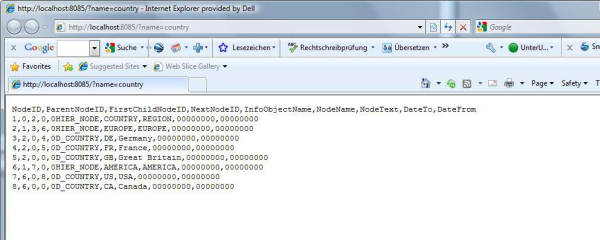
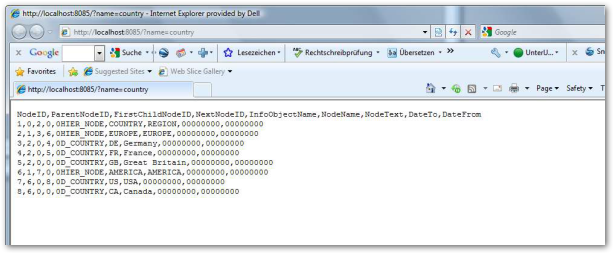
review. editorial changes

Changed region(s): [[0.0, 0.0, 1.0, 1.0]]

diff --git a/_includes/_content/en/bw-hierarchies/hierarchies-extraction-settings.md b/_includes/_content/en/bw-hierarchies/hierarchies-extraction-settings.md
@@ -1,7 +1,7 @@
 ### To Open Extraction Settings
 
 ![Extraction Settings](/img/content/xu/xu_bw-hierarchies_Extraction-Settings.png){:class="img-responsive"}
-1. In the window "Extract SAP BW Hierarchies" click on **[Extraction Settings]**. The window "Hierarchy Settings" opens.
+1. In the window "Extract SAP BW Hierarchies" click **[Extraction Settings]**. The window "Hierarchy Settings" opens.
 2. Change the settings, if needed.
 3. Click **[OK]** to confirm.
 
@@ -20,7 +20,7 @@ The window “Hierarchy Settings” contains two subsections:
 
 **Remove Leading Zeros**<br>
 Removes all leading zeros (via ALPHA conversion) in the column NodeName.
-NodeName can then be used in a join condition with the corresponding Dimension-Key of a BW Cube extraction.<br>
+NodeName can then be used in a JOIN-condition with the corresponding Dimension-Key of a BW Cube extraction.<br>
 The conversion works also for compound InfoObjects.<br> 
 Example: 0CO_AREA (1000) and 0COSTCENTER (0000003100) becomes 1000/3100.
 

diff --git a/_includes/_content/en/bw-hierarchies/table-output.md b/_includes/_content/en/bw-hierarchies/table-output.md
@@ -23,12 +23,13 @@ Name of InfoObject behind the corresponding node.
 The node’s (technical) name.
 
 **NodeText** <br>
-The descriptive text in the respective logon language (only when FetchText is set to true in the settings).
+The descriptive text in the respective logon language (only when FetchText is set to *true* in the settings).
 
-### Output of SAP
-The following example depicts the original hierarchy in SAP of PM_COUNTRY.
+### Output in SAP
+The PM_COUNTRY hierarchy from the example, looks in SAP as follows:
 
 ![Hierarchy-Table-SAP](/img/content/Hierarchy-Table-Output.png){:class="img-responsive"}
 
-
+The corresponding flat data output in a browser looks as follows:
+![Hierarchy-Table-SAP](/img/content/Hierarchy-Table-Output-Browser.png){:class="img-responsive"}
 

diff --git a/_includes/_content/en/bw-hierarchies/hierarchy-extraction-define.md b/_includes/_content/en/bw-hierarchies/hierarchy-extraction-define.md
@@ -23,4 +23,4 @@ The settings can be altered after creating extractions any time.<br>
 
 **Date To**<br>
 ![Change Date To](/img/content/xu/xu_search-hierarchy-name-filled.png){:class="img-responsive"}
-The defalut value for **Date To** is *99991231*. To change the value, click **[Run]**( and override the value.
+The defalut value for **Date To** is *99991231*. To change the value, click **[Run]** and override the value.
